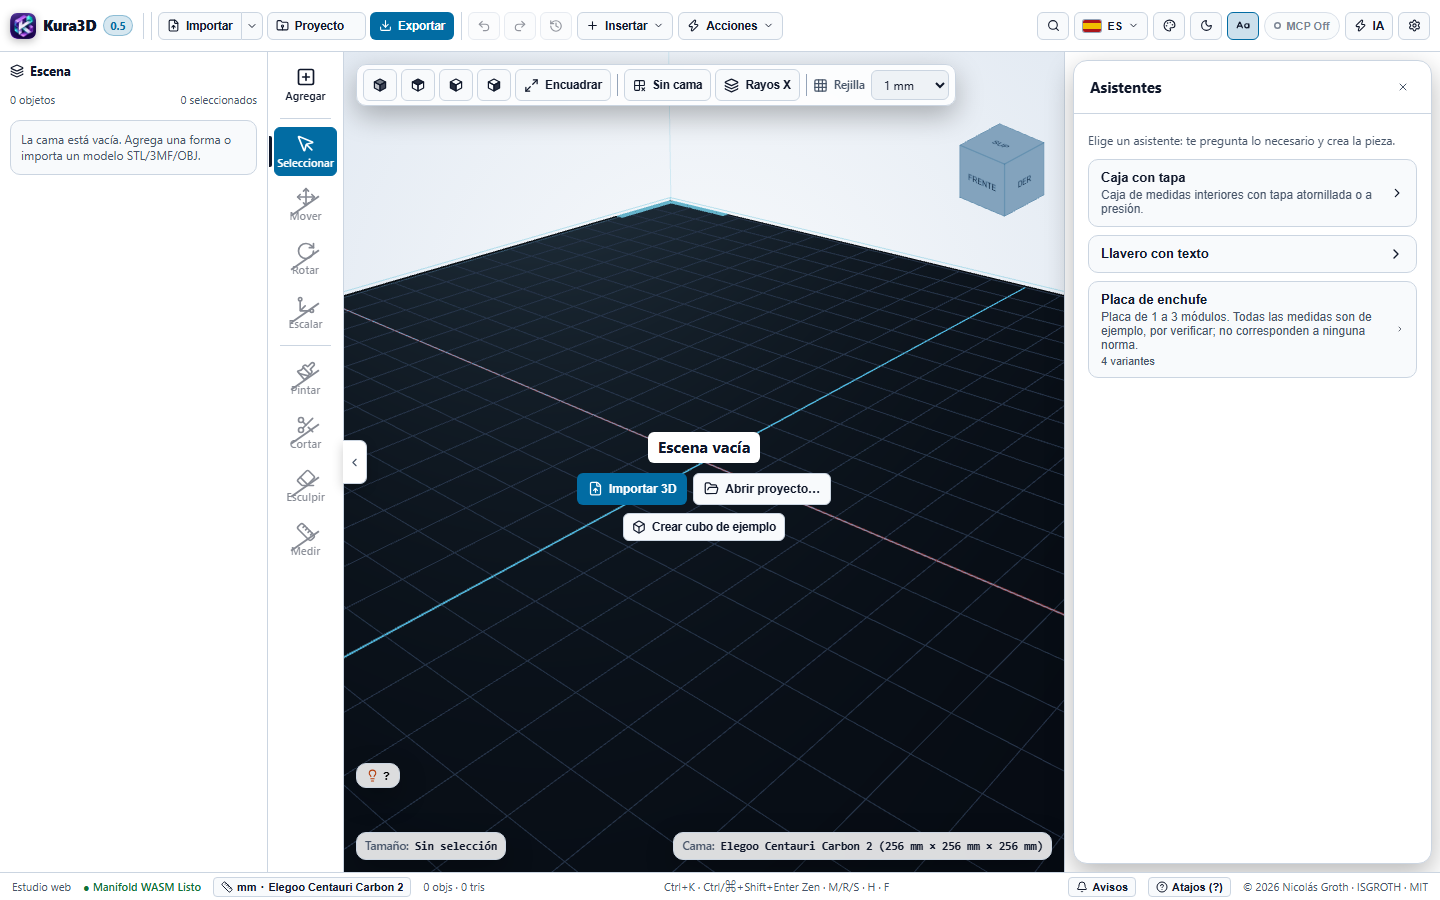
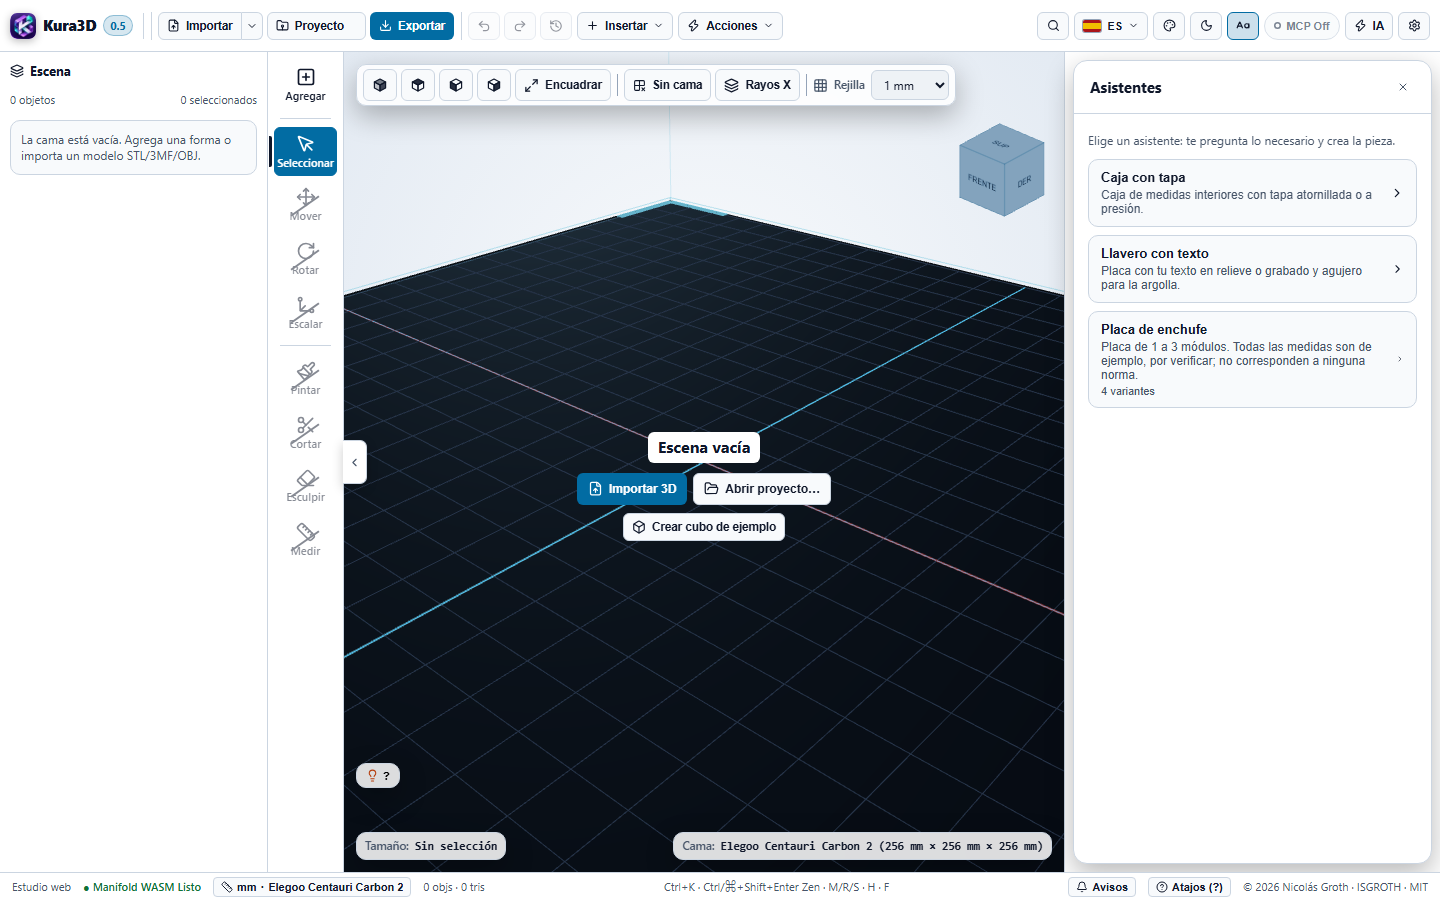
fix(asistentes): las salidas de una receta caen como bloque en un hueco libre; descripción del llavero y variantes sin marca duplicada; QA23 registrada

Changed region(s): [[0.75, 0.28, 0.9688, 0.4356]]

diff --git a/src/store/slices/recipesSlice.ts b/src/store/slices/recipesSlice.ts
@@ -2,13 +2,17 @@
  * @file src/store/slices/recipesSlice.ts
  * @description Recetas en el store: ejecuta una receta completa en el Worker del motor (tarea `runRecipe`) con la
  * cama y el idioma activos, y si sale bien agrega sus salidas como UN paso de deshacer (`commitChange`). Ante un
- * error de la receta no toca la escena: devuelve los errores tipados para que el llamador los muestre.
+ * error de la receta no toca la escena: devuelve los errores tipados para que el llamador los muestre. Las salidas
+ * se colocan como bloque en el primer hueco libre de la cama (y se avisa si no caben).
  * @author Nicolás Groth <ngroth@gmail.com>
  * @organization ISGROTH — Innovación y Soluciones GROTH
  * @license MIT
  */
 
 import type { RecipeRunResult } from '../../core/recipes/run/types';
+import { placeGroupInFreeSpot } from '../../core/scene/freeSpot';
+import { t } from '../../i18n';
+import { activeBedSize } from '../bedSize';
 import type { LanguageCode } from '../../types/kura';
 import type { StoreContext } from '../storeContext';
 import type { KuraStoreState } from '../storeTypes';
@@ -62,10 +66,22 @@ export function createRecipesSlice(ctx: StoreContext): Partial<KuraStoreState> {
           ...(request.files ? { files: request.files } : {}),
           sceneObjects: s.objects.filter((o) => chosen.has(o.id)),
         });
-        if (result.ok && result.change.added.length > 0) {
-          commitChange(result.change, { select: result.change.added.map((o) => o.id), spawned: result.change.added });
+        if (!result.ok || result.change.added.length === 0) return result;
+        // Las piezas salen de la receta alrededor del origen: se llevan como bloque (sin separarlas entre sí) al
+        // primer hueco libre de la cama, igual que todo lo nuevo. Si la receta trabaja sobre un objeto de la escena,
+        // sus salidas ya están ubicadas respecto de él y no se mueven.
+        let change = result.change;
+        if (chosen.size === 0) {
+          const now = get();
+          const spot = placeGroupInFreeSpot(now.objects, change.added, activeBedSize(now));
+          const [dx, , dz] = spot.offset;
+          if (dx !== 0 || dz !== 0) {
+            change = { ...change, added: change.added.map((o) => ({ ...o, position: [o.position[0] + dx, o.position[1], o.position[2] + dz] })) };
+          }
+          if (!spot.fits) now.addToast(t(now.language, 'toast.placedOutsideBed'), 'info');
         }
-        return result;
+        commitChange(change, { select: change.added.map((o) => o.id), spawned: change.added });
+        return change === result.change ? result : { ...result, change };
       }),
   };
 }

diff --git a/src/store/__tests__/assistantsRun.test.ts b/src/store/__tests__/assistantsRun.test.ts
@@ -36,6 +36,38 @@ describe('runAssistant (motor real)', () => {
     expect(store().objects.map((o) => o.id)).toEqual([cube.id]);
   });
 
+  it('crear dos veces no apila: el segundo juego cae en otro hueco, cada tapa conserva la distancia a su caja y todo queda en la cama', async () => {
+    const footprint = (o: { mesh: { positions: ArrayLike<number> }; position: readonly number[] }) => {
+      let minX = Infinity, maxX = -Infinity, minZ = Infinity, maxZ = -Infinity;
+      for (let i = 0; i < o.mesh.positions.length; i += 3) {
+        minX = Math.min(minX, o.mesh.positions[i] + o.position[0]); maxX = Math.max(maxX, o.mesh.positions[i] + o.position[0]);
+        minZ = Math.min(minZ, o.mesh.positions[i + 2] + o.position[2]); maxZ = Math.max(maxZ, o.mesh.positions[i + 2] + o.position[2]);
+      }
+      return { minX, maxX, minZ, maxZ };
+    };
+    await runAssistant({ recipe: builtinRecipe('kura.caja-tapa'), answers: {} });
+    await runAssistant({ recipe: builtinRecipe('kura.caja-tapa'), answers: {} });
+    const objs = store().objects;
+    expect(objs.map((o) => o.name)).toEqual(['Caja', 'Tapa', 'Caja', 'Tapa']);
+    const fps = objs.map(footprint);
+    for (let a = 0; a < fps.length; a++) {
+      for (let b = a + 1; b < fps.length; b++) {
+        const overlap = fps[a].minX < fps[b].maxX - 1e-6 && fps[a].maxX > fps[b].minX + 1e-6 && fps[a].minZ < fps[b].maxZ - 1e-6 && fps[a].maxZ > fps[b].minZ + 1e-6;
+        expect(overlap, `${a} y ${b} se solapan`).toBe(false);
+      }
+    }
+    // El bloque se mueve entero: la tapa queda a la misma distancia de su caja en los dos juegos.
+    const gap = (i: number) => [objs[i + 1].position[0] - objs[i].position[0], objs[i + 1].position[2] - objs[i].position[2]];
+    expect(gap(2)[0]).toBeCloseTo(gap(0)[0], 6);
+    expect(gap(2)[1]).toBeCloseTo(gap(0)[1], 6);
+    // El primer juego, con la cama por defecto, queda dentro de la cama y sin el aviso de «fuera de la cama».
+    const bed = store().printerProfile;
+    for (const f of fps.slice(0, 2)) {
+      expect(f.minX).toBeGreaterThanOrEqual(-bed.bedWidthMm / 2 - 1e-6);
+      expect(f.maxX).toBeLessThanOrEqual(bed.bedWidthMm / 2 + 1e-6);
+    }
+  });
+
   it('con una variante crea la pieza y la deja marcada con su procedencia', async () => {
     const outcome = await runAssistant({ recipe: builtinRecipe('kura.placa-enchufe'), answers: {}, variant: 'us' });
     expect(outcome.status).toBe('created');

diff --git a/e2e/qa23-arrastrar-asistentes.spec.ts b/e2e/qa23-arrastrar-asistentes.spec.ts
@@ -306,9 +306,8 @@ test.describe('B. asistentes', () => {
     expect(errs.filter((e) => !/favicon/.test(e))).toEqual([]);
   });
 
-  // FALLO CONOCIDO QA23 (mayor): la segunda creación cae exactamente sobre la primera. Al corregirse, quitar test.fail.
+  // QA23: la segunda creación caía exactamente sobre la primera (corregido: las salidas van a un hueco libre).
   test('crear dos veces seguidas sin deshacer: la segunda no se solapa con la primera', async ({ page }) => {
-    test.fail();
     await abrir(page);
     for (let k = 1; k <= 2; k++) {
       await abrirAsistentes(page);
@@ -321,7 +320,7 @@ test.describe('B. asistentes', () => {
     const cajas = o.filter((x: any) => x.name === 'Caja');
     expect(cajas).toHaveLength(2);
     const [a, b] = cajas;
-    const solapa = Math.abs(a.pos[0] - b.pos[0]) < (a.dims[0] + b.dims[0]) / 2 - 0.01 && Math.abs(a.pos[1] - b.pos[1]) < (a.dims[1] + b.dims[1]) / 2 - 0.01;
+    const solapa = Math.abs(a.pos[0] - b.pos[0]) < (a.dims[0] + b.dims[0]) / 2 - 0.01 && Math.abs(a.pos[2] - b.pos[2]) < (a.dims[2] + b.dims[2]) / 2 - 0.01; // planta: X y Z (Y es la altura)
     expect(solapa, 'la segunda caja cae sobre la primera').toBe(false);
   });
 

diff --git a/docs/TABLERO.md b/docs/TABLERO.md
@@ -22,8 +22,8 @@ Estado de `main`: 2526 pruebas del frontend, 151 del servidor MCP y 37 de Rust e
 
 | Funcionalidad | Estado |
 |---|---|
-| Arrastrar el objeto seleccionado para moverlo sobre su plano horizontal (decisión del autor del 24-nov); orbitar queda para el fondo | Integrado en la rama `feat/asistentes-y-arrastrar` el 24-nov (11:45), 2637 pruebas pasan; en QA en navegador |
-| Asistentes: sección para crear piezas paso a paso desde las recetas incorporadas (caja con tapa, llavero, placa de enchufe), con formulario generado desde la receta | Integrado en la rama `feat/asistentes-y-arrastrar` el 24-nov (11:45), 2637 pruebas pasan; en QA en navegador |
+| Arrastrar el objeto seleccionado para moverlo sobre su plano horizontal (decisión del autor del 24-nov); orbitar queda para el fondo | QA23 del 24-nov: arrastrar sin fallos; Asistentes rechazada por dos fallos de colocación, ya corregidos. En evaluación a ciegas |
+| Asistentes: sección para crear piezas paso a paso desde las recetas incorporadas (caja con tapa, llavero, placa de enchufe), con formulario generado desde la receta | QA23 del 24-nov: arrastrar sin fallos; Asistentes rechazada por dos fallos de colocación, ya corregidos. En evaluación a ciegas |
 | Quinta evaluación de usabilidad (80): «Todo encaja» con 0 pares comprobados (corregido el 24-nov: era el resultado anterior que seguía visible al cambiar la selección); objetos nuevos e importados solapados o fuera de la cama; borrador vacío que se sigue ofreciendo; avisos sobre paneles; nombres truncados en el árbol; menú de clic derecho largo y vocabulario mezclado; dos herramientas pulsadas a la vez; Dividir sin indicador de recálculo | Integrado en `main` el 24-nov (11:10). QA22 aprobada con observaciones y corregida. Sexta evaluación: 81 (mínimo 85), sin bloqueos; quedan 11 hallazgos nuevos (aviso que no se cierra, colocación en escenas cargadas, botón Proyecto, árbol). El autor aceptó 81 de forma temporal el 24-nov para avanzar con funcionalidades; los 11 hallazgos quedan pendientes y se retoman después |
 | Hallazgos de la QA del 23-nov (aprobada con observaciones): cancelar Comprobar encaje con un modelo de 478 mil triángulos tarda unos 9 s y la comprobación cerca de 1 min con la máquina cargada; el aviso "Ver encaje" sigue disponible tras deshacer el ajuste; la barra de estado recorta "Avisos" a 390 px | Pendiente |
 | Pendientes del rediseño: a 1280 px las vistas quedan solo con icono y a 1024 px toda la barra de vista; los avisos tapan el agarre X del manipulador de escala a 1280×720; descripción y fechas del proyecto (cambia el `.kura`); Cortar, Dividir, Ajustar, Molde, Proyectar, Rosca y Medir siguen con su panel propio; Comprobar encaje en la paleta de comandos y en pulgadas | Pendiente |

diff --git a/docs/EVALUACIONES.md b/docs/EVALUACIONES.md
@@ -512,3 +512,24 @@ No evaluado: guardar y abrir `.kura`, arrastrar el manipulador, ángulo/área/ca
 Serie de usabilidad: 76 → 75 → 79 → 78 → 80 → 81. Sexta ronda bajo el mínimo: se consulta de nuevo al autor.
 
 Consumo: evaluador (Opus · 17 min).
+
+## QA23 · 24 de noviembre de 2026, 12:15 · rama `feat/asistentes-y-arrastrar` · rechazada, corregida
+
+Dos funcionalidades nuevas: arrastrar el objeto seleccionado para moverlo sobre su plano horizontal, y la sección Asistentes (caja con tapa, llavero, placa de enchufe).
+
+**Arrastrar para mover:** sin fallos. Objeto apoyado y elevado, varias vistas incluida la rasante, varios seleccionados, bloqueados, Escape, un solo paso de deshacer, rejilla, grupos; no actúa con Pintar, Cortar, Borrar ni Medir. Con Rotar o Escalar activos el cuerpo no mueve el objeto (decisión del desarrollo). Con un STL de 253 mil triángulos no congela, pero va a unas 4 imágenes por segundo, un 50 % más lento que orbitar. Sin probar: táctil y lápiz.
+
+**Asistentes:** rechazada por dos fallos mayores, corregidos por el orquestador:
+
+1. Crear dos veces el mismo asistente apilaba el segundo juego sobre el primero. Ahora las salidas de una receta se llevan como bloque al primer hueco libre de la cama.
+2. Con la cama por defecto la tapa quedaba 8 mm fuera de la cama y el aviso no lo decía. Con la colocación en bloque el juego queda centrado dentro de la cama, y si no cabe sale el aviso habitual.
+
+Menores corregidos: el llavero no tenía descripción; las variantes de la placa decían «(por verificar) (sin verificar)». Menor pendiente: a 390 px la hoja de Asistentes abre muy baja (se ve un solo campo). Antes de la QA se corrigieron dos variantes de la placa (Italia y España) que no respetaban su propio rango.
+
+Lo demás pasó: lista, foco, teclado, paleta, rangos con mensaje junto al campo, coma decimal, las 4 variantes de la placa, medidas de la caja (84 × 64 × 42 exterior para 80 × 60 × 40 interior con pared 2), un solo deshacer, inglés, 390/1024/1440 px sin scroll horizontal. Recorridos vecinos: 19 de 19.
+
+Tras las correcciones: 2638 pruebas del frontend pasan; el recorrido de doble creación pasa en navegador (su medición comparaba la altura en vez del fondo y se corrigió).
+
+No probado: tema oscuro real, táctil y lápiz, 1280×720, contenido de los archivos exportados, «Comprobar encaje» de la caja con la tapa montada, idiomas de, fr, hi y zh.
+
+Consumo (modelo · duración · tokens): arrastrar para mover (Sonnet · 24 min · 190 k), Asistentes (Sonnet · 22 min · 283 k), QA23 (Sonnet · 39 min · 176 k).

diff --git a/CHANGELOG.md b/CHANGELOG.md
@@ -10,6 +10,8 @@ El proyecto sigue versionamiento pre-1.0 (`0.x.y`) durante su maduración hasta 
 
 ## [Sin publicar]
 
+- **Asistentes.** Nueva sección (Insertar → Asistentes, o la paleta) para crear piezas paso a paso: caja con tapa, llavero con texto y placa de enchufe, con un formulario que sale de cada receta y valida mientras escribes.
+- **Arrastrar para mover.** Con un objeto seleccionado, arrastrarlo lo mueve sobre el plano horizontal en que está; arrastrar el fondo sigue girando la vista.
 - **Usabilidad, lote tras la quinta evaluación.** Menú de clic derecho corto (12 entradas y submenús iguales a los de «Acciones»), un solo nombre por comando en menús y paleta, y todas las acciones disponibles en la paleta. Lo nuevo y lo importado cae al costado, no detrás. Los avisos ya no tapan paneles (máximo 2 visibles). Nombres largos distinguibles en el árbol. Una sola herramienta marcada en la barra. Dividir avisa mientras recalcula. Medir no mueve la cámara. Mayús+H oculta y vuelve a mostrar. Una escena vacía no deja borrador. Los objetos nuevos usan el menor número libre.
 - **Comprobar encaje, sin resultados engañosos.** Al cambiar la selección, el resultado anterior deja de mostrarse y el panel pide volver a comprobar. Cuando ningún objeto está cerca de otro, lo dice en vez de «Todo calza».
 - **Interfaz rediseñada.** Barra superior con Archivo (Importar, Proyecto, Exportar), Edición con historial desplegable y un menú Acciones; las herramientas pasan a una barra vertical; la vista queda en una sola barra de una fila. Un botón muestra u oculta los rótulos, y cada control se explica en su tooltip y en la barra de estado. El panel derecho es contextual: sin selección muestra el proyecto, con un objeto su resumen, y con una acción activa solo sus opciones; se ensancha, se reduce y se pliega.
